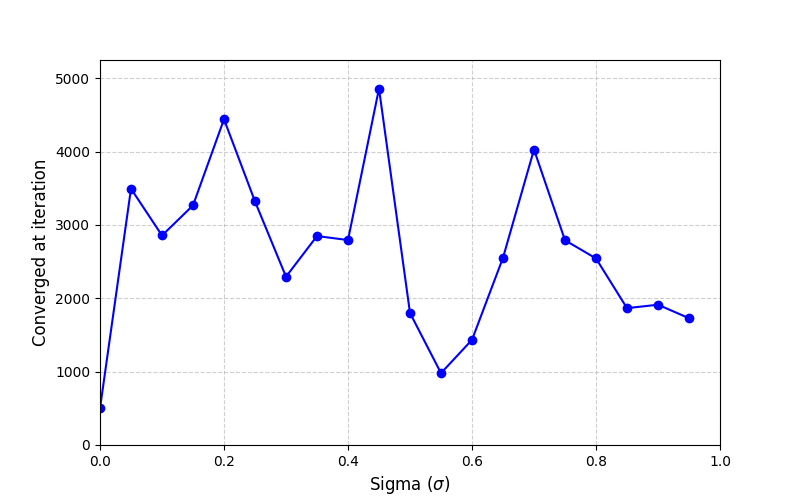
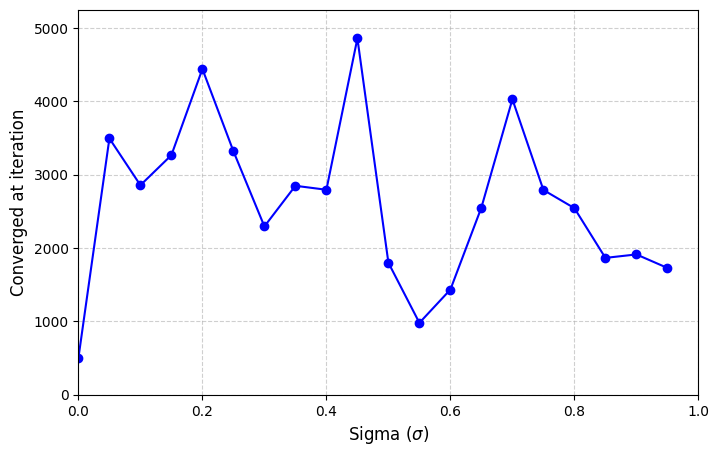
add new plots with better titles

diff --git a/StatisticHelpers/src/sigma_plot.py b/StatisticHelpers/src/sigma_plot.py
@@ -64,7 +64,7 @@ plt.grid(True, linestyle="--", alpha=0.6)
 plt.xlim(0, 1)
 plt.ylim(0, 1)
 
-plt.savefig(savepathPrefix + "_fitness_plot.png")
+plt.savefig(savepathPrefix + "_fitness_plot.png", bbox_inches="tight")
 
 plt.figure(figsize=(8, 5))
 
@@ -83,4 +83,4 @@ plt.grid(True, linestyle="--", alpha=0.6)
 plt.xlim(0, 1)
 plt.ylim(0, 5250)
 
-plt.savefig(savepathPrefix + "_convergence_plot.png")
+plt.savefig(savepathPrefix + "_convergence_plot.png", bbox_inches="tight")
